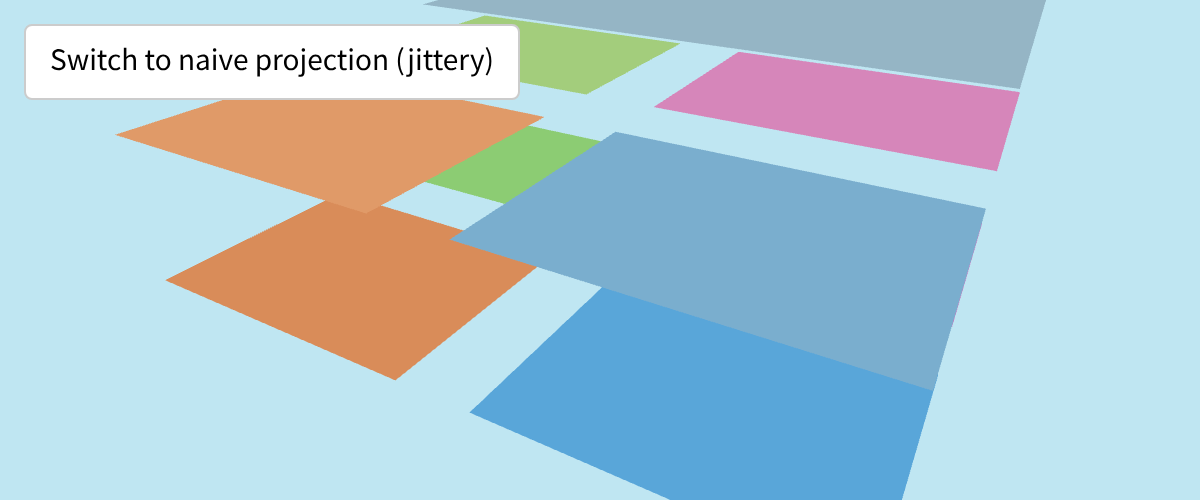
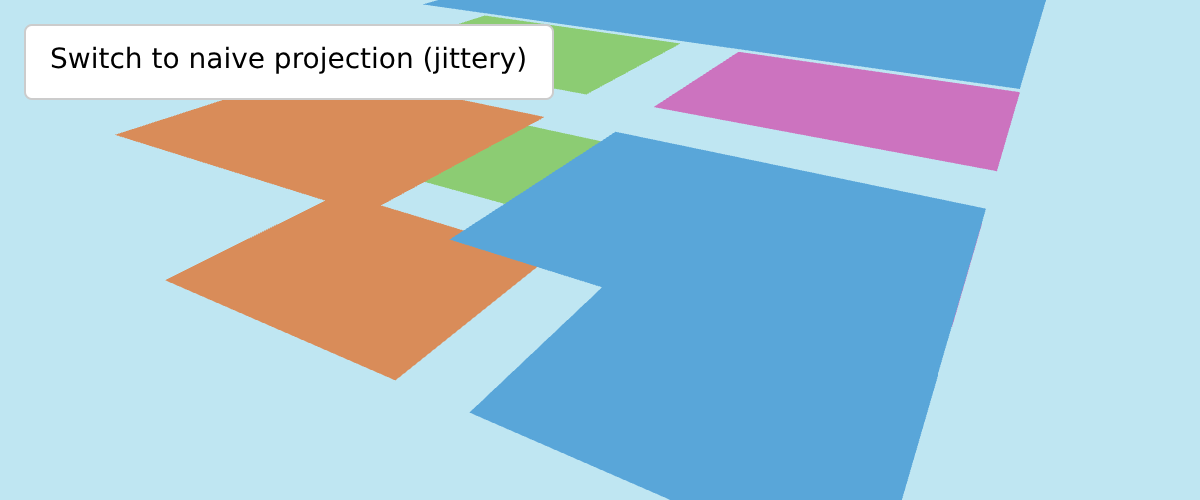
docs(example): de-vibe and shrink the custom-layer jitter example
Drop the 37-line comment block and inline comments down to one short intro,
fold the shader compile into a loop, and refresh the thumbnail. 281 -> 200
lines; behaviour unchanged (naive/origin-relative toggle kept).

Changed region(s): [[0.37, 0.27, 0.8325, 0.78], [0.0308, 0.0, 0.8942, 0.21]]

diff --git a/test/examples/avoid-jitter-in-a-custom-layer-at-high-zoom.html b/test/examples/avoid-jitter-in-a-custom-layer-at-high-zoom.html
@@ -32,98 +32,47 @@
 <script type="module">
 import * as maplibregl from '../../dist/maplibre-gl-dev.mjs';
 
-/*
- * Custom layers receive vertex data in mercator coordinates, which range
- * over [0, 1] globally. Storing that directly in a float32 vertex buffer
- * loses precision fast: float32 has ~7 significant decimal digits, so once a
- * coordinate's magnitude is around 0.5 (as most mercator coordinates are),
- * only distances of a few metres and up survive being rounded to the
- * nearest representable float32 value - see
- * https://github.com/maplibre/maplibre-gl-js/issues/4871. Indoor floor
- * plans, building interiors, or anything else at room scale sits well
- * inside that dead zone, and ends up visibly jittering/swimming as the
- * camera moves, since the rounding error changes slightly every frame.
- *
- * MapLibre already hands custom layers a 64-bit float projection matrix for
- * exactly this reason (see the comment on CustomLayerProjectionData in
- * projection_data.ts) - the fix is to do the large-magnitude part of the
- * math in that full precision, and keep only small, well-conditioned
- * numbers in float32:
- *
- *   1. Pick a fixed local origin near the geometry (in mercator units).
- *   2. Store each vertex as a small (x, y, z) OFFSET from that origin, in
- *      local metres converted to mercator units - never the raw absolute
- *      mercator coordinate. These offsets stay tiny in magnitude, so
- *      float32 has plenty of precision for them.
- *   3. Each frame, multiply the origin (not the offset) through the
- *      64-bit matrix on the CPU, in full precision, to get its clip-space
- *      position - this is the only place the large-magnitude numbers ever
- *      meet each other, and it happens before anything is cast to float32.
- *   4. In the vertex shader, add that precomputed origin-in-clip-space to
- *      `u_matrix * vec4(offset, 0.0)` (the 0 in the w slot drops the
- *      matrix's translation column, so only its well-conditioned
- *      rotation/scale part touches the small offset).
- *
- * Algebraically this is exact: for a point p = origin + offset,
- * M*[p,1] = M*[origin,1] + M*[offset,0]. Splitting it this way just
- * chooses *where* the float32 rounding happens - on well-conditioned
- * numbers instead of on a large coordinate paired with a small one.
- */
+// Custom-layer vertices are in mercator units (~0.5 in magnitude), where
+// float32 keeps only metre-scale precision, so room-scale geometry jitters
+// (#4871). Fix: store vertices as small offsets from a fixed origin, push the
+// origin through the 64-bit projection matrix on the CPU, and add the two in
+// the shader. Toggle to compare against the naive absolute-coordinate path.
 
-const FISHER_BUILDING = [-87.629003, 41.877218]; // Chicago Loop
+const FISHER_BUILDING = [-87.629003, 41.877218];
 const FLOOR_HEIGHT_M = 4;
-
-// A small, illustrative floor plan (not the real interior) - 2x2 rooms per
-// floor, split by a 2m corridor, repeated on 3 storeys 4m apart.
 const ROOMS = [
     {x: [-9, -1], y: [-7, -1], color: [0.85, 0.55, 0.35]},
     {x: [1, 9], y: [-7, -1], color: [0.35, 0.65, 0.85]},
     {x: [-9, -1], y: [1, 7], color: [0.55, 0.80, 0.45]},
     {x: [1, 9], y: [1, 7], color: [0.80, 0.45, 0.75]}
 ];
-const FLOOR_TINT = [1, 0.82, 0.64];
 
 const originMercator = maplibregl.MercatorCoordinate.fromLngLat(FISHER_BUILDING, 0);
 const metersToMercatorUnits = originMercator.meterInMercatorCoordinateUnits();
 
-// Build the room geometry once, as small (x, y, z) offsets from the origin
-// in mercator units - never as absolute mercator coordinates.
 function buildOffsetsAndColors() {
     const offsets = [];
     const colors = [];
     for (let floor = 0; floor < 3; floor++) {
         const dz = floor * FLOOR_HEIGHT_M * metersToMercatorUnits;
-        const tint = Math.pow(0.8, floor);
         for (const room of ROOMS) {
             const x0 = room.x[0] * metersToMercatorUnits;
             const x1 = room.x[1] * metersToMercatorUnits;
-            // Mercator Y increases southward, so flip the sign to keep the
-            // room layout's "north" matching the map's.
             const y0 = -room.y[0] * metersToMercatorUnits;
             const y1 = -room.y[1] * metersToMercatorUnits;
-            const color = [
-                room.color[0] * tint + FLOOR_TINT[0] * (1 - tint),
-                room.color[1] * tint + FLOOR_TINT[1] * (1 - tint),
-                room.color[2] * tint + FLOOR_TINT[2] * (1 - tint)
-            ];
             const corners = [
                 [x0, y0, dz], [x1, y0, dz], [x1, y1, dz],
                 [x1, y1, dz], [x0, y1, dz], [x0, y0, dz]
             ];
             for (const c of corners) {
                 offsets.push(c[0], c[1], c[2]);
-                colors.push(color[0], color[1], color[2]);
+                colors.push(room.color[0], room.color[1], room.color[2]);
             }
         }
     }
     return {offsets: new Float32Array(offsets), colors: new Float32Array(colors)};
 }
 
-// Naive (buggy) path: the origin is cast down to float32 and re-added to the
-// offset *inside* the shader - the exact mistake #4871 reports. Precise path:
-// the origin's clip-space position is precomputed on the CPU in float64 and
-// only added after `u_matrix` has acted on the (small, well-conditioned)
-// offset.
 const preciseVertexSource = `#version 300 es
 uniform mat4 u_matrix;
 uniform vec4 u_originClip;
@@ -143,8 +92,7 @@ in vec3 a_color;
 out vec3 v_color;
 void main() {
     v_color = a_color;
-    vec3 worldPos = u_originF32 + a_offset;
-    gl_Position = u_matrix * vec4(worldPos, 1.0);
+    gl_Position = u_matrix * vec4(u_originF32 + a_offset, 1.0);
 }`;
 
 const fragmentSource = `#version 300 es
@@ -156,28 +104,27 @@ void main() {
 }`;
 
 function compileProgram(gl, vertexSource) {
-    const vertexShader = gl.createShader(gl.VERTEX_SHADER);
-    gl.shaderSource(vertexShader, vertexSource);
-    gl.compileShader(vertexShader);
-    if (!gl.getShaderParameter(vertexShader, gl.COMPILE_STATUS)) {
-        throw new Error(gl.getShaderInfoLog(vertexShader));
-    }
-
-    const fragmentShader = gl.createShader(gl.FRAGMENT_SHADER);
-    gl.shaderSource(fragmentShader, fragmentSource);
-    gl.compileShader(fragmentShader);
-    if (!gl.getShaderParameter(fragmentShader, gl.COMPILE_STATUS)) {
-        throw new Error(gl.getShaderInfoLog(fragmentShader));
-    }
-
     const program = gl.createProgram();
-    gl.attachShader(program, vertexShader);
-    gl.attachShader(program, fragmentShader);
-    gl.linkProgram(program);
-    if (!gl.getProgramParameter(program, gl.LINK_STATUS)) {
-        throw new Error(gl.getProgramInfoLog(program));
+    for (const [type, source] of [[gl.VERTEX_SHADER, vertexSource], [gl.FRAGMENT_SHADER, fragmentSource]]) {
+        const shader = gl.createShader(type);
+        gl.shaderSource(shader, source);
+        gl.compileShader(shader);
+        if (!gl.getShaderParameter(shader, gl.COMPILE_STATUS)) throw new Error(gl.getShaderInfoLog(shader));
+        gl.attachShader(program, shader);
     }
+    gl.linkProgram(program);
+    if (!gl.getProgramParameter(program, gl.LINK_STATUS)) throw new Error(gl.getProgramInfoLog(program));
     return program;
+}
+
+function transformMat4(v, m) {
+    const [x, y, z, w] = v;
+    return [
+        m[0] * x + m[4] * y + m[8] * z + m[12] * w,
+        m[1] * x + m[5] * y + m[9] * z + m[13] * w,
+        m[2] * x + m[6] * y + m[10] * z + m[14] * w,
+        m[3] * x + m[7] * y + m[11] * z + m[15] * w
+    ];
 }
 
 const buildingLayer = {
@@ -192,11 +139,9 @@ const buildingLayer = {
 
         const {offsets, colors} = buildOffsetsAndColors();
         this.vertexCount = offsets.length / 3;
-
         this.offsetBuffer = gl.createBuffer();
         gl.bindBuffer(gl.ARRAY_BUFFER, this.offsetBuffer);
         gl.bufferData(gl.ARRAY_BUFFER, offsets, gl.STATIC_DRAW);
-
         this.colorBuffer = gl.createBuffer();
         gl.bindBuffer(gl.ARRAY_BUFFER, this.colorBuffer);
         gl.bufferData(gl.ARRAY_BUFFER, colors, gl.STATIC_DRAW);
@@ -205,32 +150,21 @@ const buildingLayer = {
     render(gl, args) {
         const program = this.useNaiveProjection ? this.naiveProgram : this.preciseProgram;
         gl.useProgram(program);
-
         const matrix = args.defaultProjectionData.mainMatrix;
 
         if (this.useNaiveProjection) {
-            // The bug: origin gets cast to float32 here, before it's ever
-            // combined with the offset.
-            const originF32 = new Float32Array([originMercator.x, originMercator.y, originMercator.z]);
-            gl.uniform3fv(gl.getUniformLocation(program, 'u_originF32'), originF32);
+            gl.uniform3fv(gl.getUniformLocation(program, 'u_originF32'),
+                new Float32Array([originMercator.x, originMercator.y, originMercator.z]));
         } else {
-            // The fix: multiply the origin through the full 64-bit matrix
-            // first, and only cast the (small, well-conditioned) clip-space
-            // result down to float32.
-            const originClip = transformMat4(
-                [originMercator.x, originMercator.y, originMercator.z, 1],
-                matrix
-            );
+            const originClip = transformMat4([originMercator.x, originMercator.y, originMercator.z, 1], matrix);
             gl.uniform4fv(gl.getUniformLocation(program, 'u_originClip'), new Float32Array(originClip));
         }
-
         gl.uniformMatrix4fv(gl.getUniformLocation(program, 'u_matrix'), false, new Float32Array(matrix));
 
         const aOffset = gl.getAttribLocation(program, 'a_offset');
         gl.bindBuffer(gl.ARRAY_BUFFER, this.offsetBuffer);
         gl.enableVertexAttribArray(aOffset);
         gl.vertexAttribPointer(aOffset, 3, gl.FLOAT, false, 0, 0);
-
         const aColor = gl.getAttribLocation(program, 'a_color');
         gl.bindBuffer(gl.ARRAY_BUFFER, this.colorBuffer);
         gl.enableVertexAttribArray(aColor);
@@ -240,19 +174,6 @@ const buildingLayer = {
         gl.drawArrays(gl.TRIANGLES, 0, this.vertexCount);
     }
 };
-
-// Plain 4x4 * vec4 multiply done in JS numbers (always float64) - this is
-// the one place the origin's large-magnitude coordinates get combined with
-// the matrix, and it needs to happen at full precision.
-function transformMat4(v, m) {
-    const [x, y, z, w] = v;
-    return [
-        m[0] * x + m[4] * y + m[8] * z + m[12] * w,
-        m[1] * x + m[5] * y + m[9] * z + m[13] * w,
-        m[2] * x + m[6] * y + m[10] * z + m[14] * w,
-        m[3] * x + m[7] * y + m[11] * z + m[15] * w
-    ];
-}
 
 const map = new maplibregl.Map({
     container: 'map',
@@ -264,9 +185,7 @@ const map = new maplibregl.Map({
     canvasContextAttributes: {antialias: true}
 });
 
-map.on('load', () => {
-    map.addLayer(buildingLayer);
-});
+map.on('load', () => map.addLayer(buildingLayer));
 
 const toggle = document.getElementById('toggle');
 toggle.addEventListener('click', () => {
